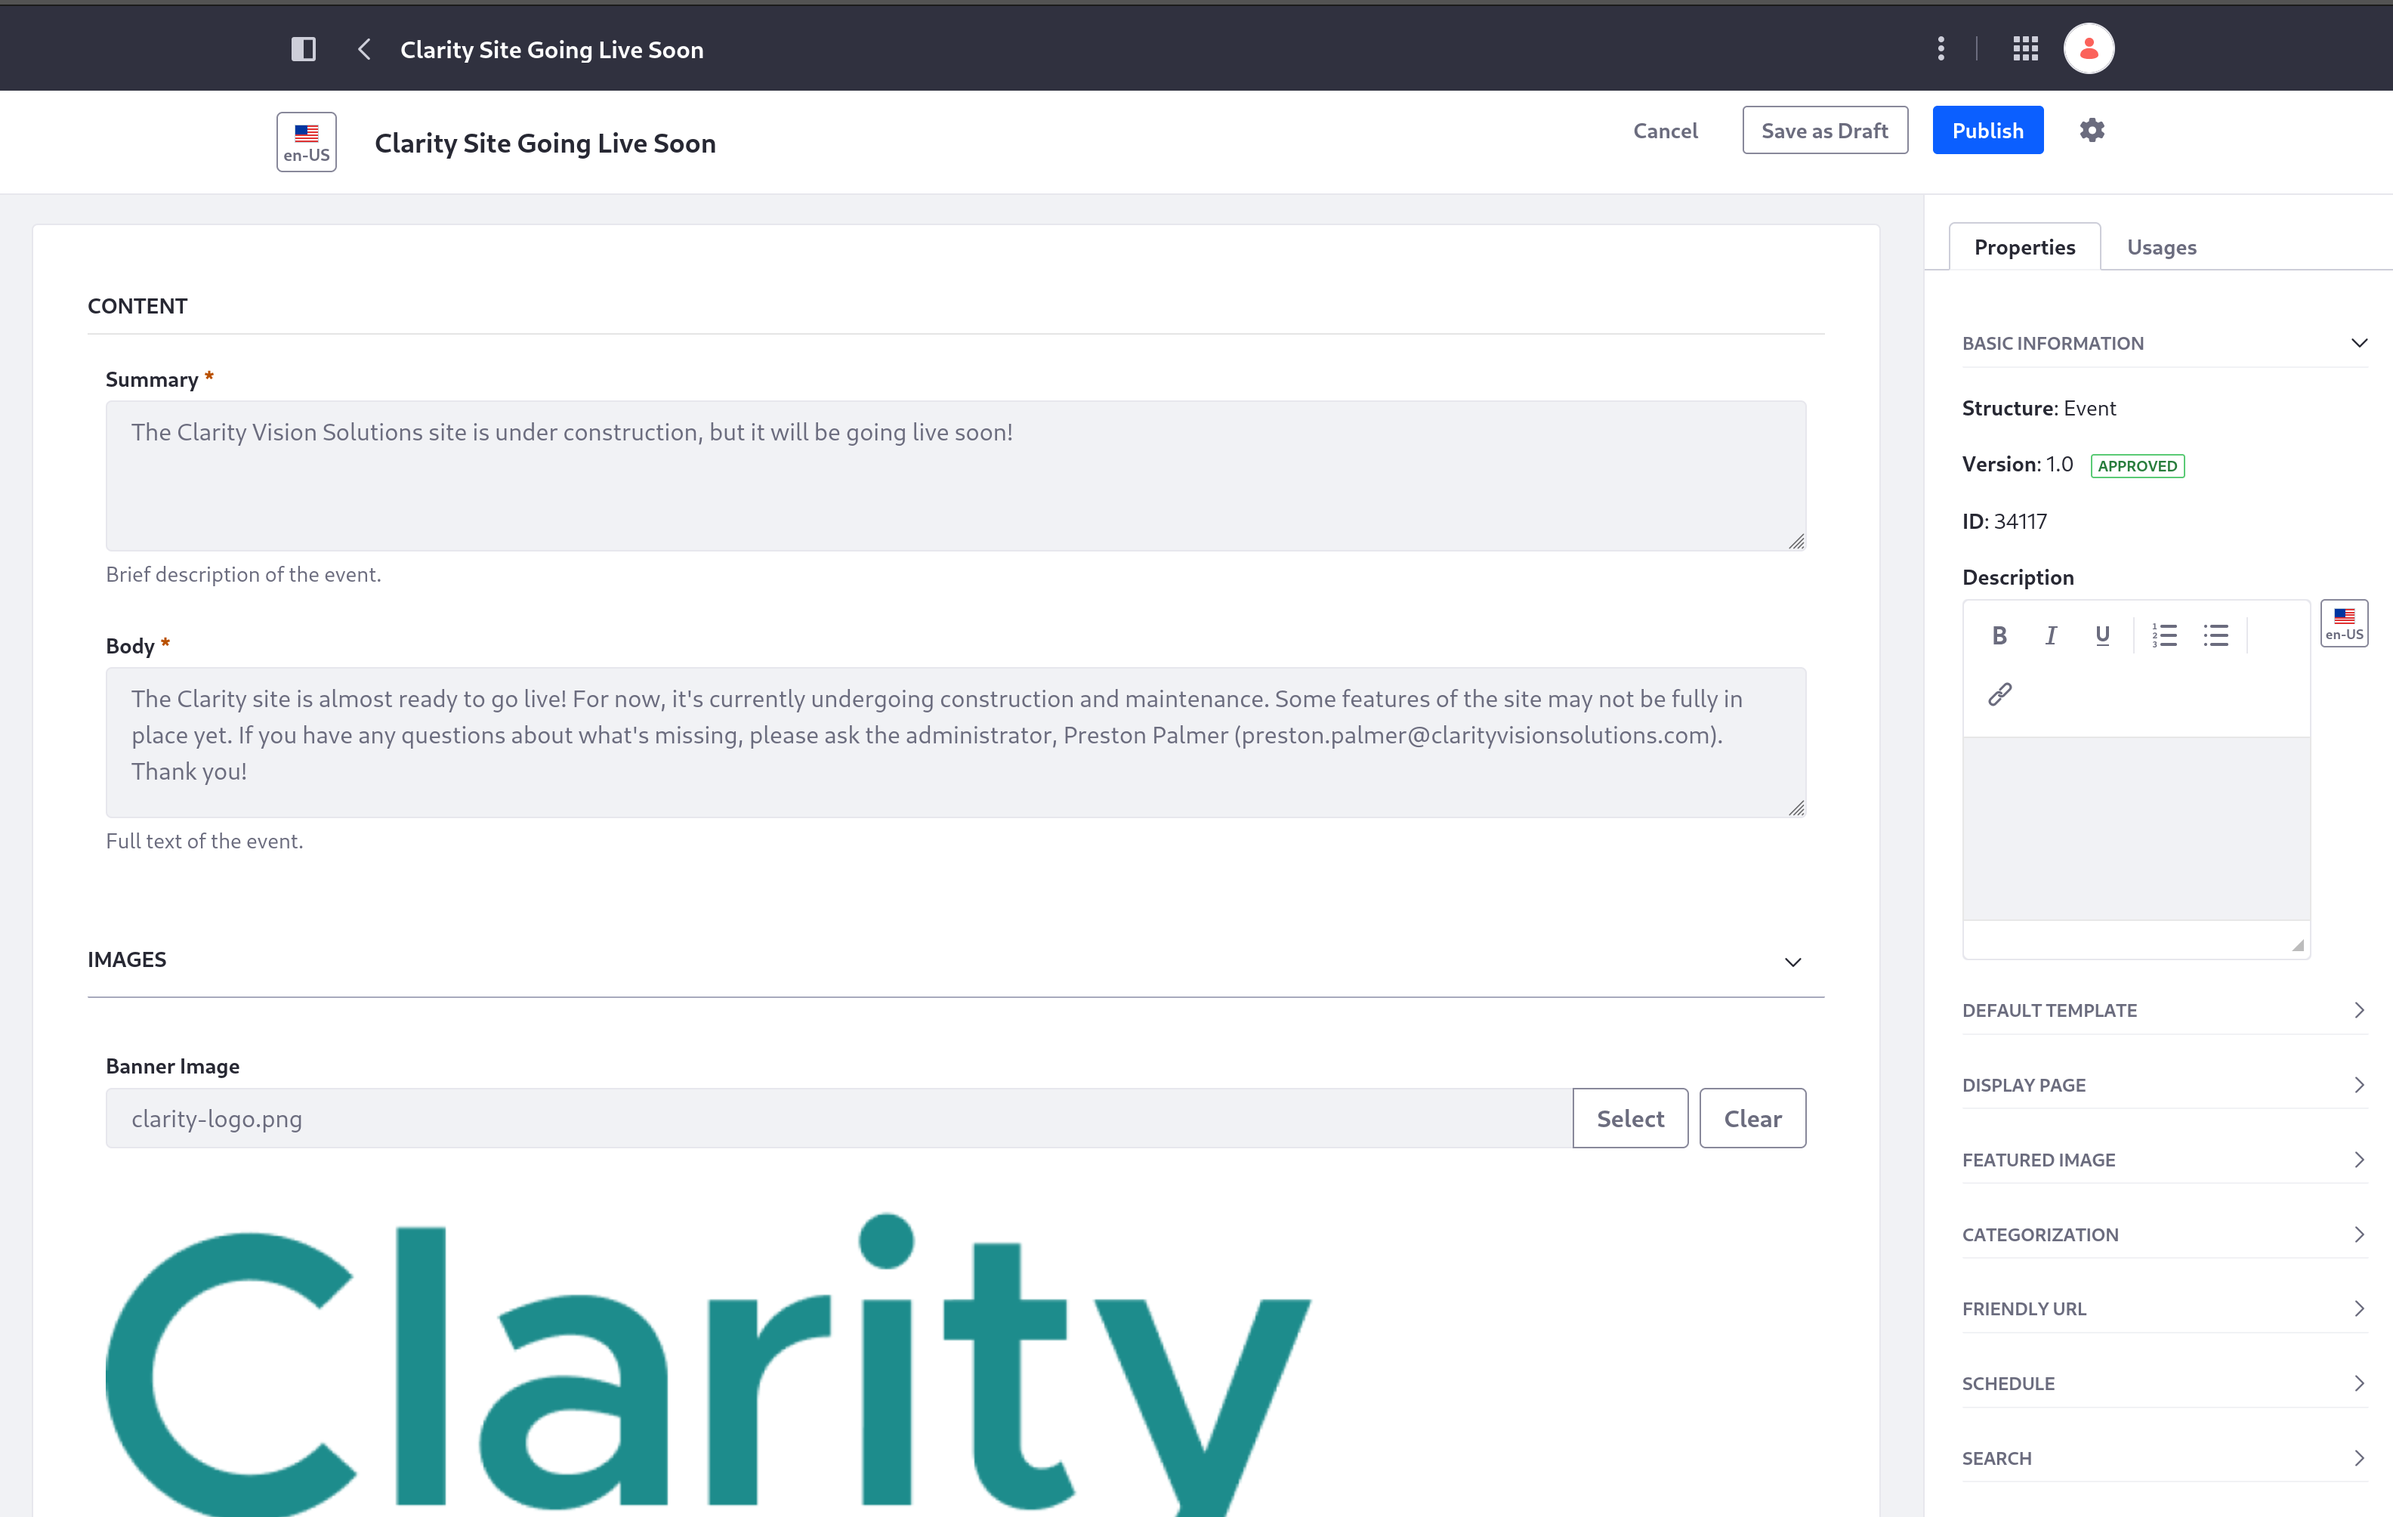
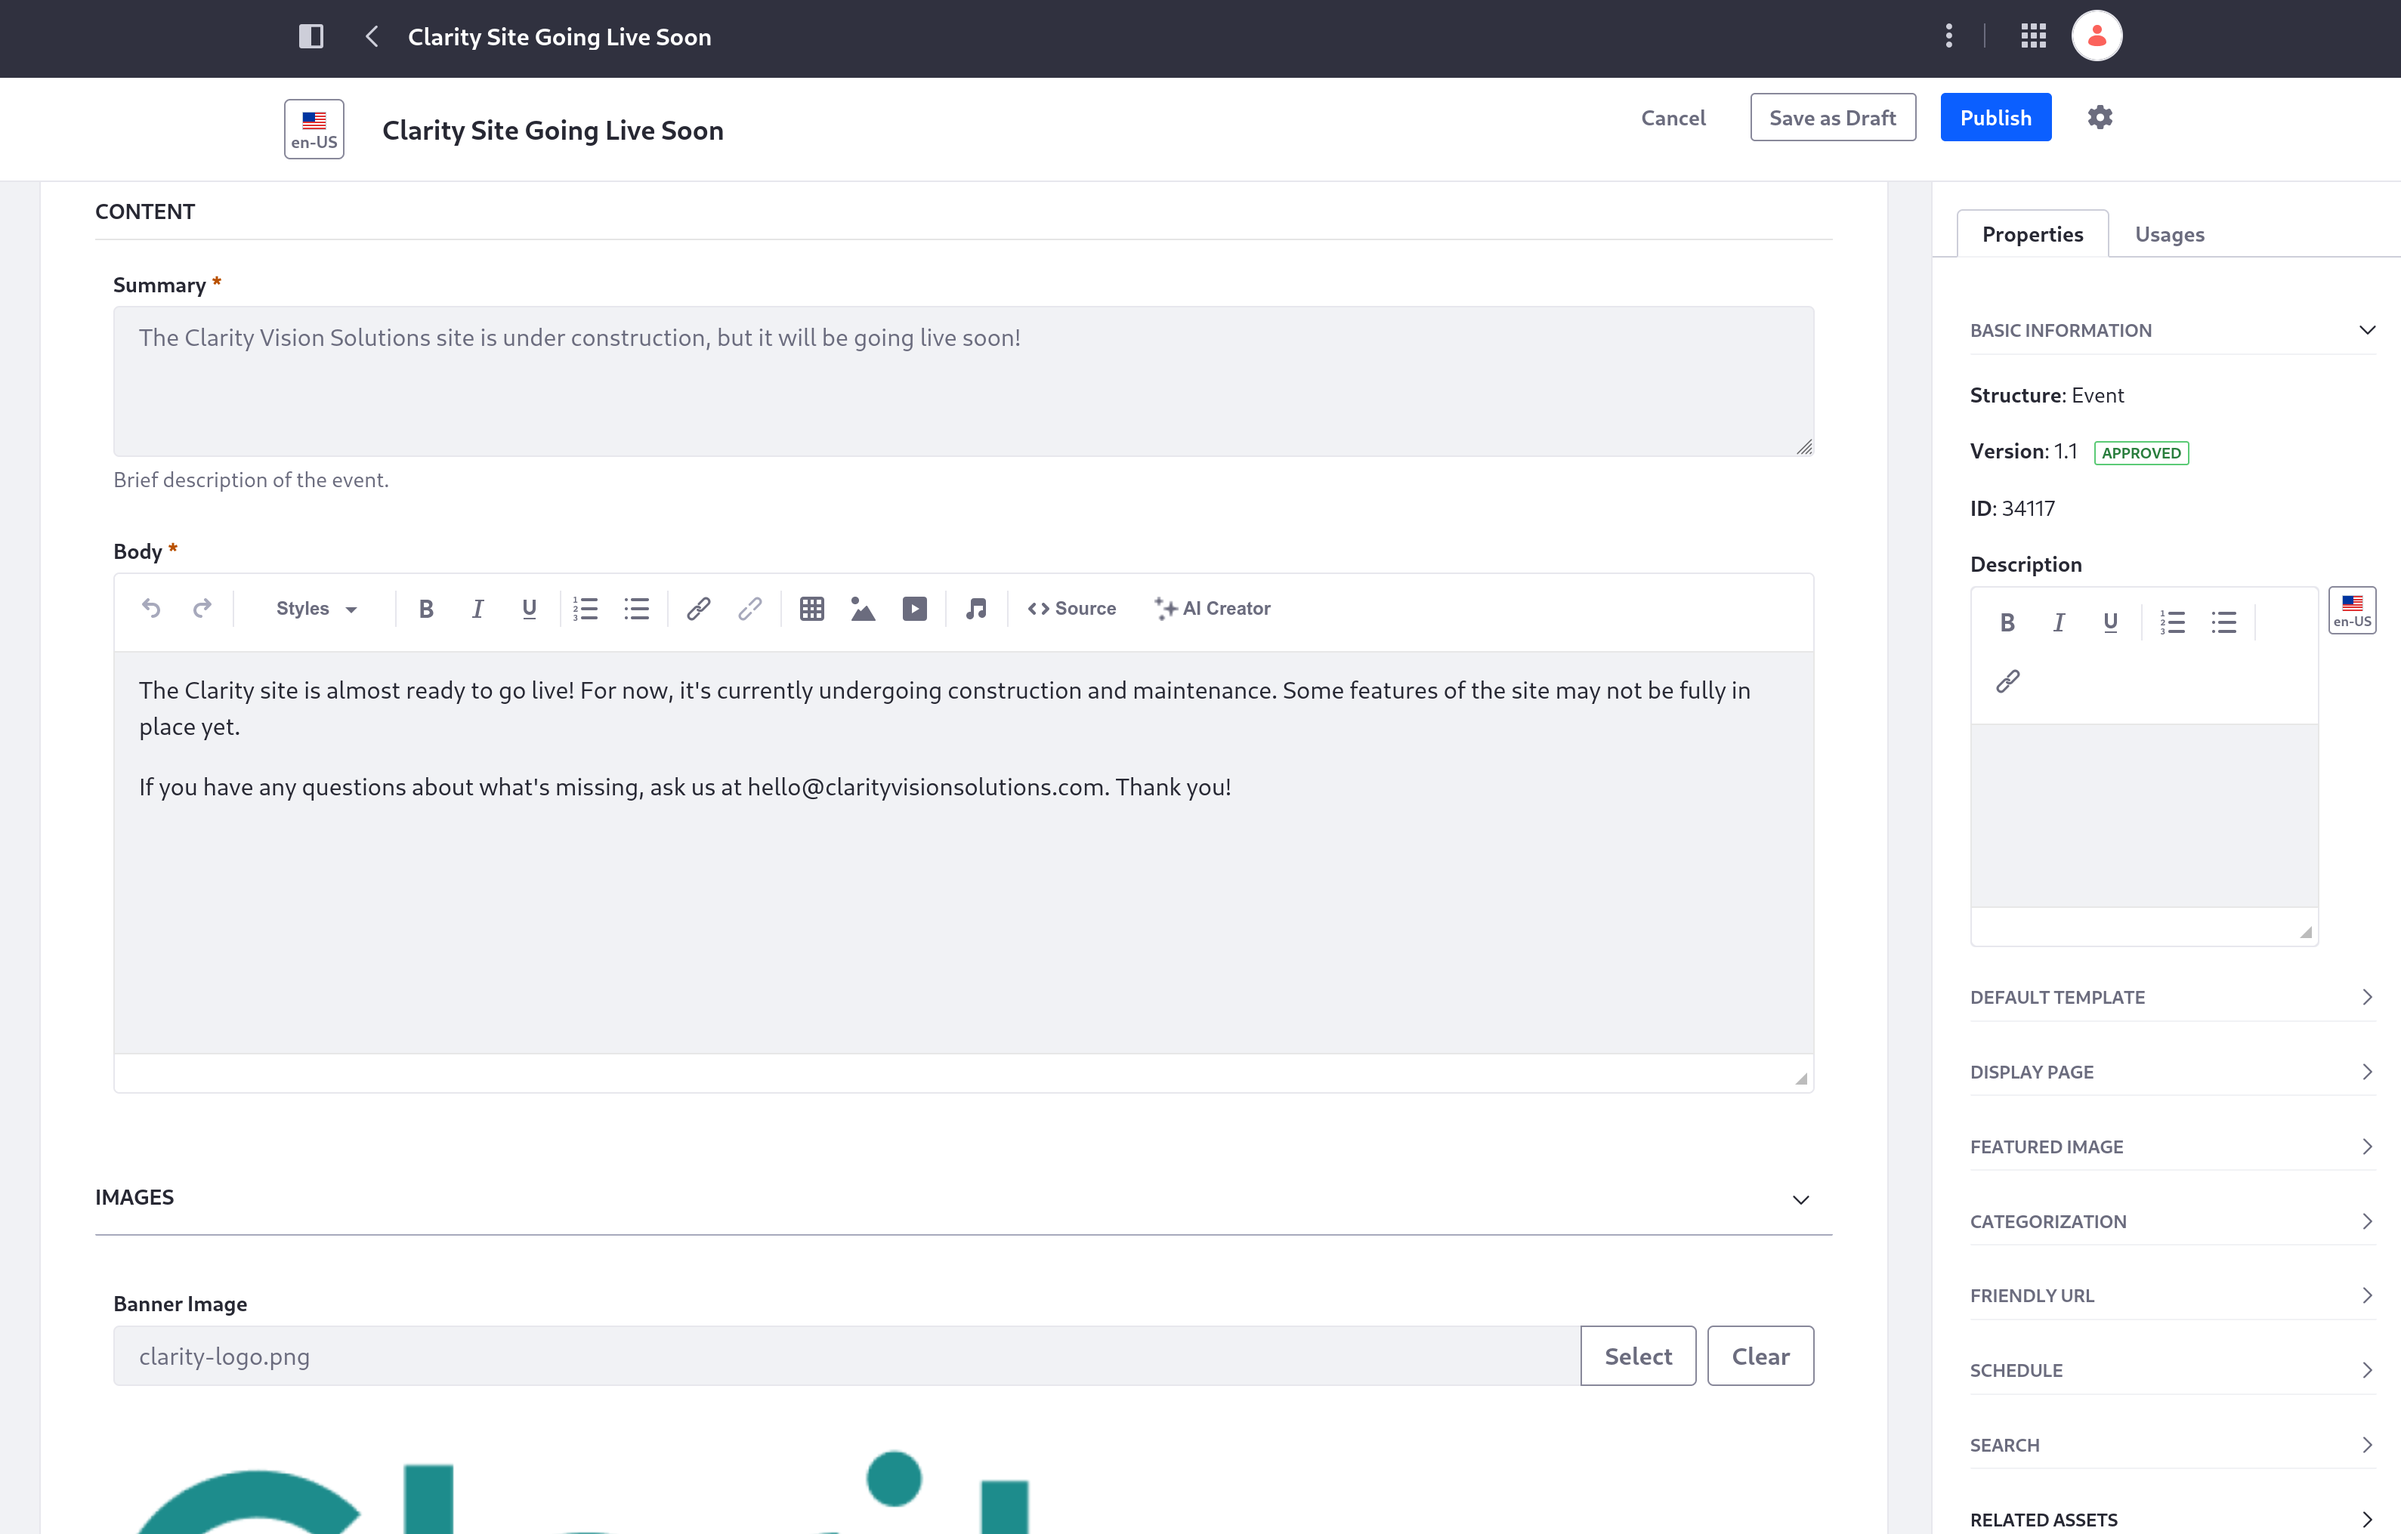
LRDOCS-12287 Fixing links + screenshot

diff --git a/docs/courses/latest/en/web-site-manager/creating-content/adding-a-template-to-display-faqs.md b/docs/courses/latest/en/web-site-manager/creating-content/adding-a-template-to-display-faqs.md
@@ -19,7 +19,7 @@ Here, you'll make use of a [FreeMarker list](https://freemarker.apache.org/docs/
 
    ![Click Manage Templates to specifically add templates for this web content structure.](./adding-a-template-to-display-faqs/images/01.png)
 
-1. Click Add (! [Add icon](../../images/icon-add.png) ) to create a new template.
+1. Click Add ( ![Add icon](../../images/icon-add.png) ) to create a new template.
 
    The new template is automatically associated with the FAQs structure because you chose to manage templates for it.
 
@@ -80,7 +80,7 @@ Next, you'll format the way a FAQs article is listed.
 
 Now you have a template that displays each question and answer wherever you display a FAQs article, and you can display both of your new types of web content properly on your site.
 
-Next, you'll start [adding some articles](./adding-the-sites-first-web-content-articles.md) with your new types.
+Next, you'll start [adding some articles](./adding-the-sites-first-web-content.md) with your new types.
 
 ## Relevant Concepts
 

diff --git a/docs/courses/latest/en/web-site-manager/creating-content/adding-the-sites-first-web-content.md b/docs/courses/latest/en/web-site-manager/creating-content/adding-the-sites-first-web-content.md
@@ -28,7 +28,9 @@ First, add an event article to announce the Clarity site going live soon.
 1. In the *Body* field, enter this text:
 
    ```
-   The Clarity site is almost ready to go live! For now, it's currently undergoing construction and maintenance. Some features of the site may not be fully in place yet. If you have any questions about what's missing, ask us at hello@clarityvisionsolutions.com. Thank you!
+   The Clarity site is almost ready to go live! For now, it's currently undergoing construction and maintenance. Some features of the site may not be fully in place yet.
+
+   If you have any questions about what's missing, ask us at hello@clarityvisionsolutions.com. Thank you!
    ```
 
 1. Click *Select* beside the *Banner Image* field, and choose the Clarity logo (`clarity-logo.png`) you used for the site's [header and footer in the previous module](../creating-pages/defining-the-pages-header-and-footer.md).

diff --git a/docs/courses/latest/en/web-site-manager/creating-content/adding-a-template-to-display-an-event.md b/docs/courses/latest/en/web-site-manager/creating-content/adding-a-template-to-display-an-event.md
@@ -19,7 +19,7 @@ Here, you'll use HTML and [FreeMarker tags](https://freemarker.apache.org/docs/d
 
    ![Click Manage Templates to specifically add templates for this web content structure.](./adding-a-template-to-display-an-event/images/01.png)
 
-1. Click Add (! [Add icon](../../images/icon-add.png) ) to create a new template.
+1. Click Add ( ![Add icon](../../images/icon-add.png) ) to create a new template.
 
    The new template is automatically associated with the Event structure because you chose to manage templates for it.
 
